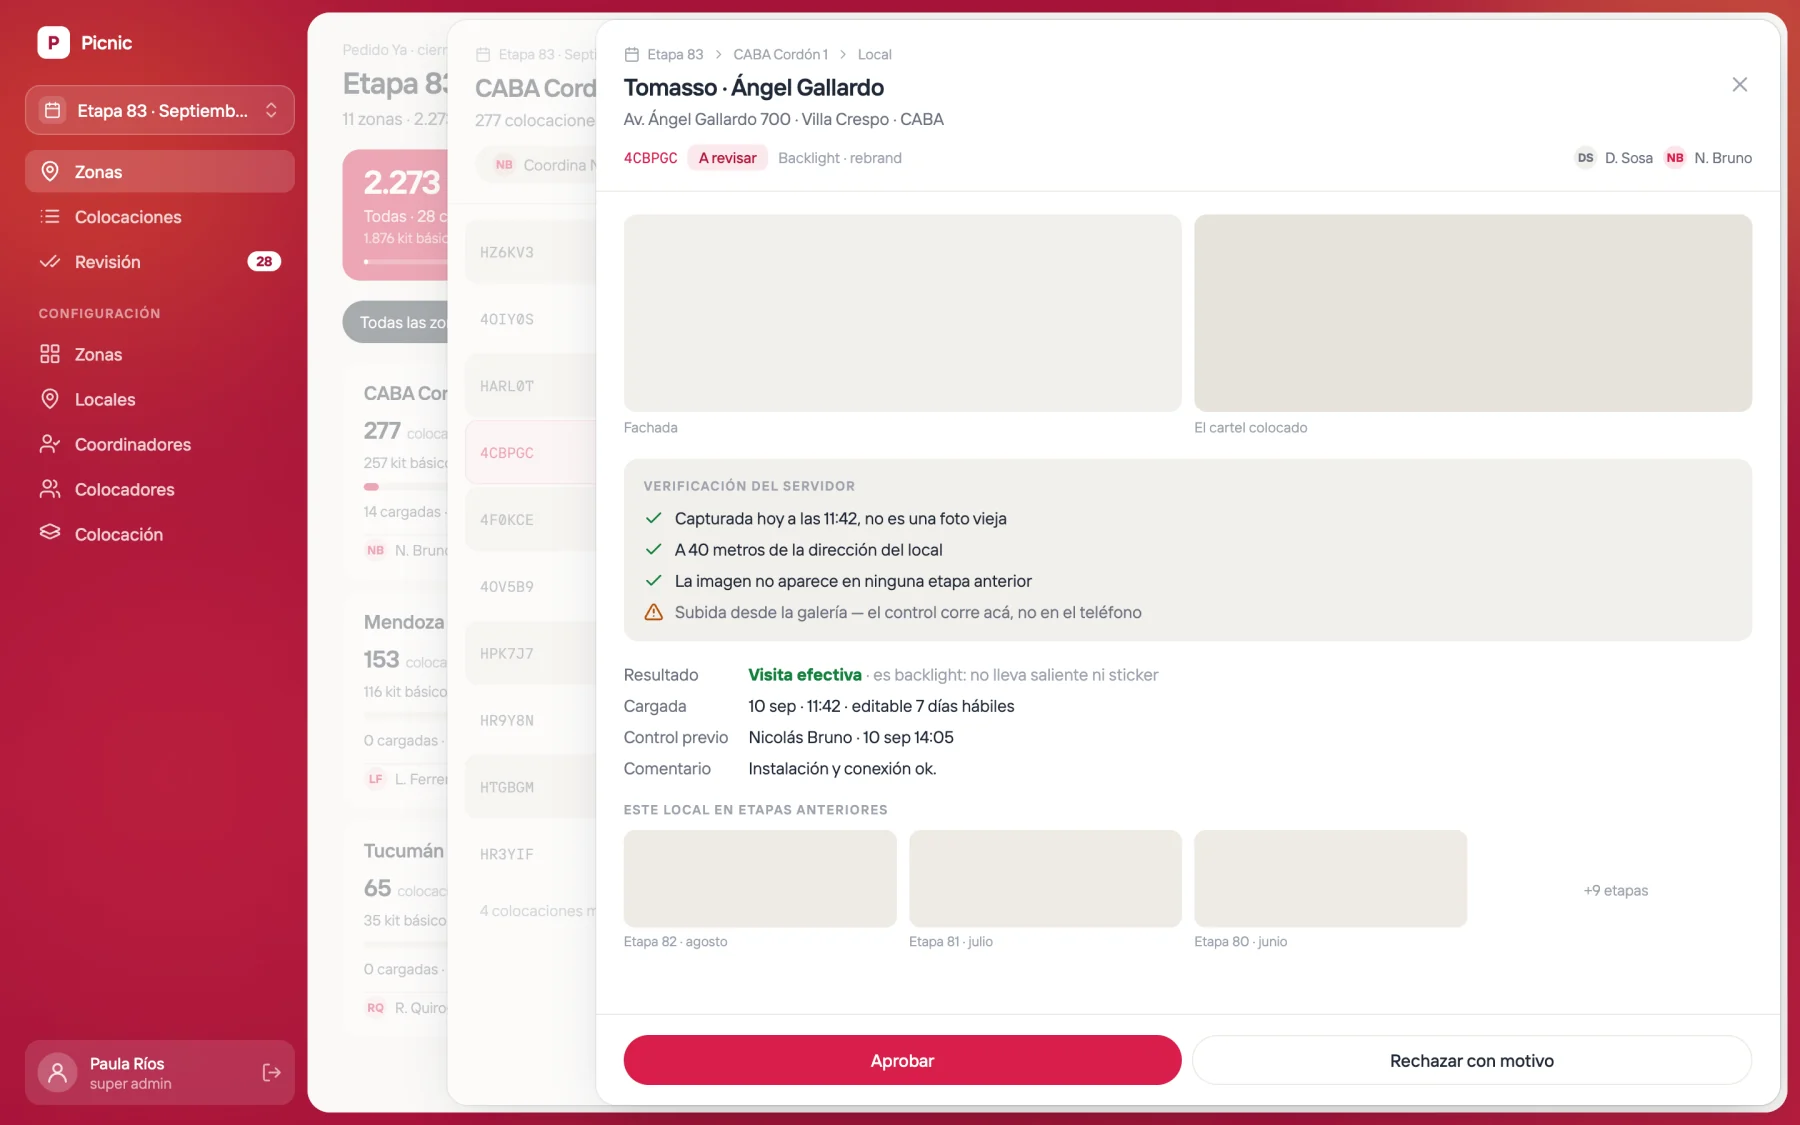
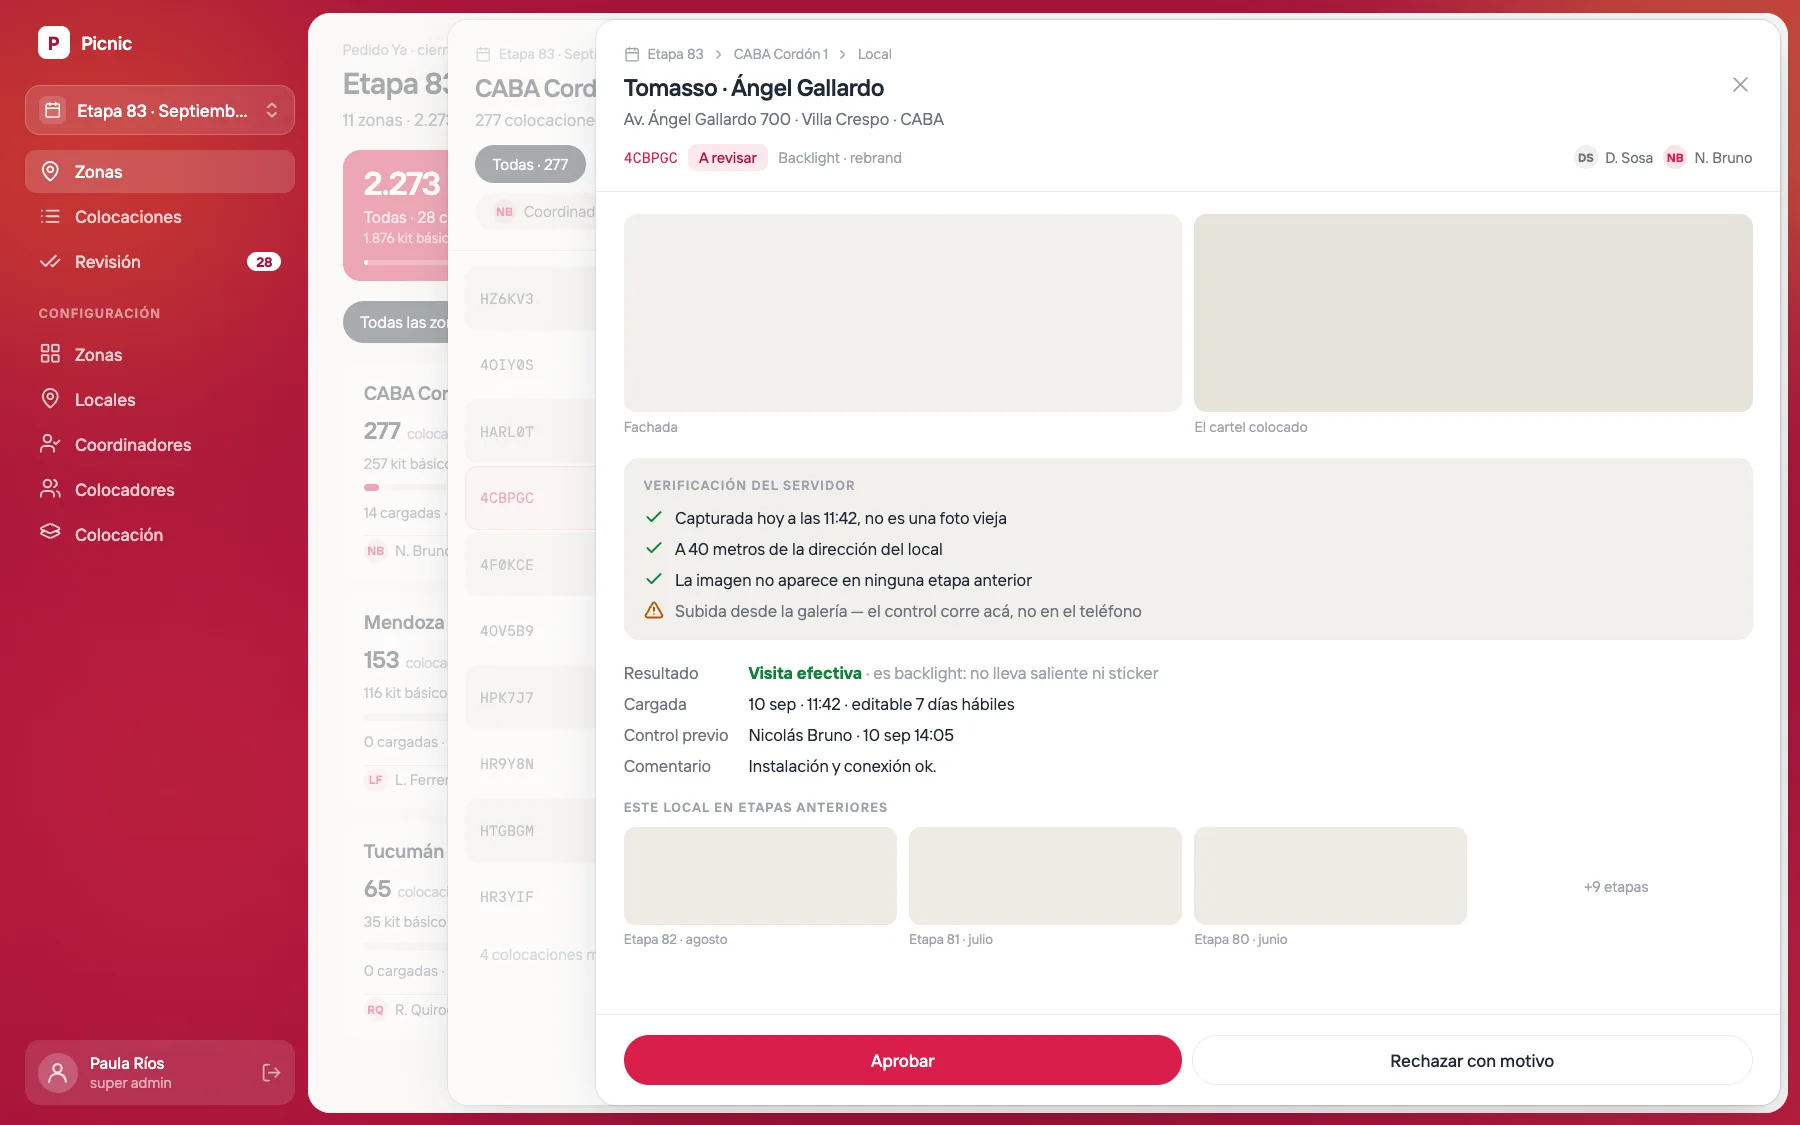
Picnic: filtros de colocaciones como principales en la zona, y colocadores multi-selección
En el panel de zona los chips de coordinador y colocador ocupaban el lugar
principal y el material quedaba a la derecha. Ahora arriba van los filtros de
las colocaciones —todas, cargadas, sin cargar, a revisar, rechazadas— más el
material, y el quién baja a una segunda línea.

Una zona puede tener varios colocadores, así que el chip único se reemplaza por
un desplegable de selección múltiple con una casilla por persona y la cantidad
que cargó cada una. Capturas de zona y cascada regeneradas.

Claude-Session: https://claude.ai/code/session_01K6jsKSt1gM2QwkJs1HSrry

diff --git a/src/pages/PicnicPlataforma.tsx b/src/pages/PicnicPlataforma.tsx
@@ -144,6 +144,16 @@ export default function PicnicPlataforma() {
           atenuada detrás: al cerrar el panel se retoma en el mismo punto.
         </p>
         <p>
+          Los filtros principales son los de las colocaciones: su estado —cargadas, sin
+          cargar, a revisar, rechazadas— y el material. Debajo quedan el coordinador y
+          los colocadores.
+        </p>
+        <p>
+          Una zona puede tener <strong>varios colocadores</strong>, así que el
+          desplegable es de selección múltiple: se marcan con una casilla los que se
+          quieran ver, uno o varios a la vez, con la cantidad que cargó cada uno.
+        </p>
+        <p>
           Dentro de la zona, cada local muestra el resultado de su visita. En el kit
           básico se registra cada material por separado —el saliente puede quedar
           colocado y el sticker no—; en backlight, que es un material único, se
@@ -152,7 +162,7 @@ export default function PicnicPlataforma() {
         <Pantalla
           src="/picnic/zona.webp"
           alt="Panel de detalle de zona abierto sobre la vista de etapa"
-          pie="Detalle de zona, con el resultado de cada material."
+          pie="Detalle de zona: arriba los filtros de colocaciones, y el desplegable de colocadores abierto."
         />
       </TwoColumnSection>
 

diff --git a/src/pages/PicnicDeck.tsx b/src/pages/PicnicDeck.tsx
@@ -83,13 +83,14 @@ const SLIDES: Slide[] = [
     bajada:
       'Al seleccionar una zona se abre un panel sobre la pantalla anterior. La vista de etapa queda atenuada detrás: al cerrar el panel se retoma en el mismo punto.',
     puntos: [
+      'Los filtros principales son los de las colocaciones: estado y material',
+      'Una zona puede tener varios colocadores: el desplegable es de selección múltiple',
       'En el kit básico se registra cada material por separado',
       'En backlight, que es un material único, sólo si la visita fue efectiva',
-      'Y la asignación de cada local',
     ],
     img: '/picnic/zona.webp',
     alt: 'Panel de detalle de zona abierto sobre la vista de etapa',
-    pie: 'Detalle de zona, con el resultado de cada material.',
+    pie: 'Filtros de colocaciones arriba, y el desplegable de colocadores abierto.',
   },
   {
     id: 'local',
